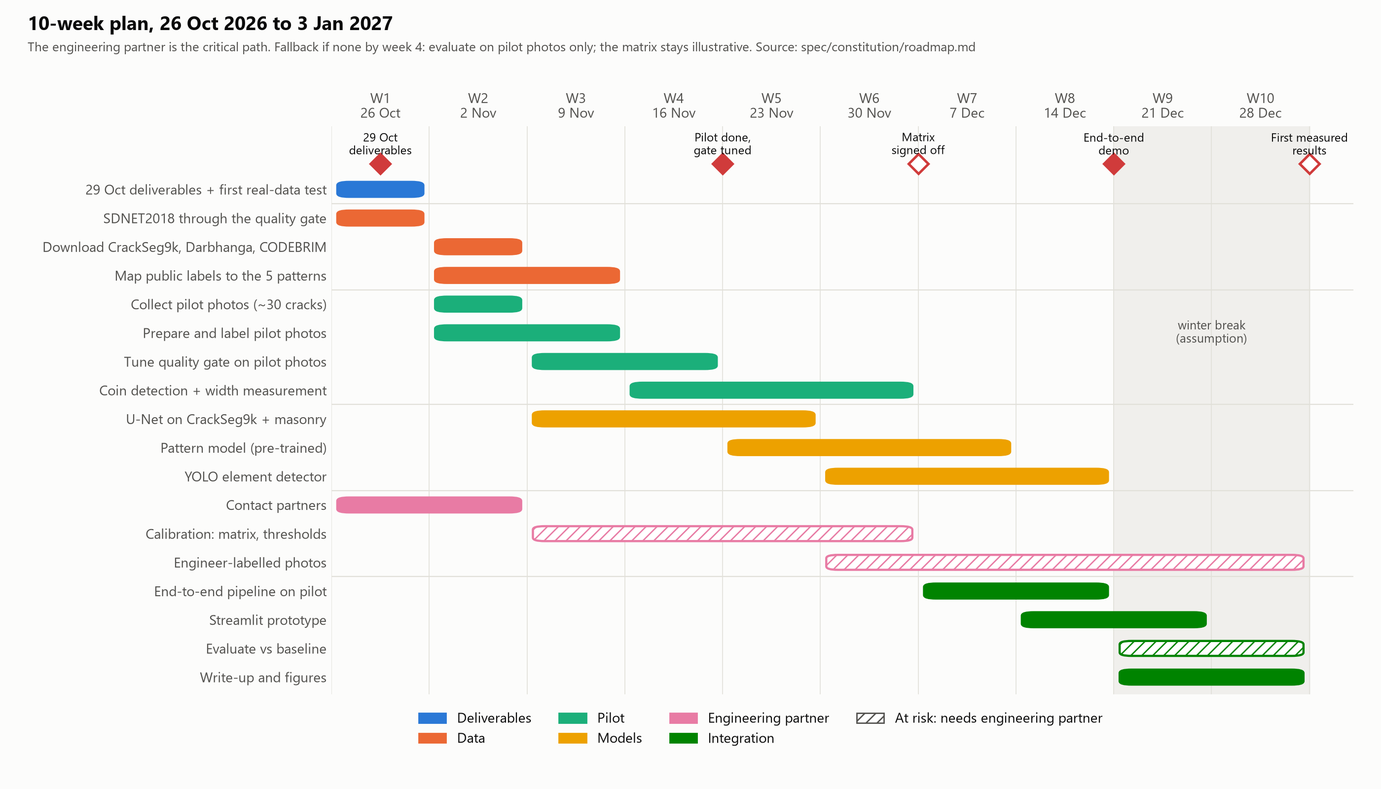
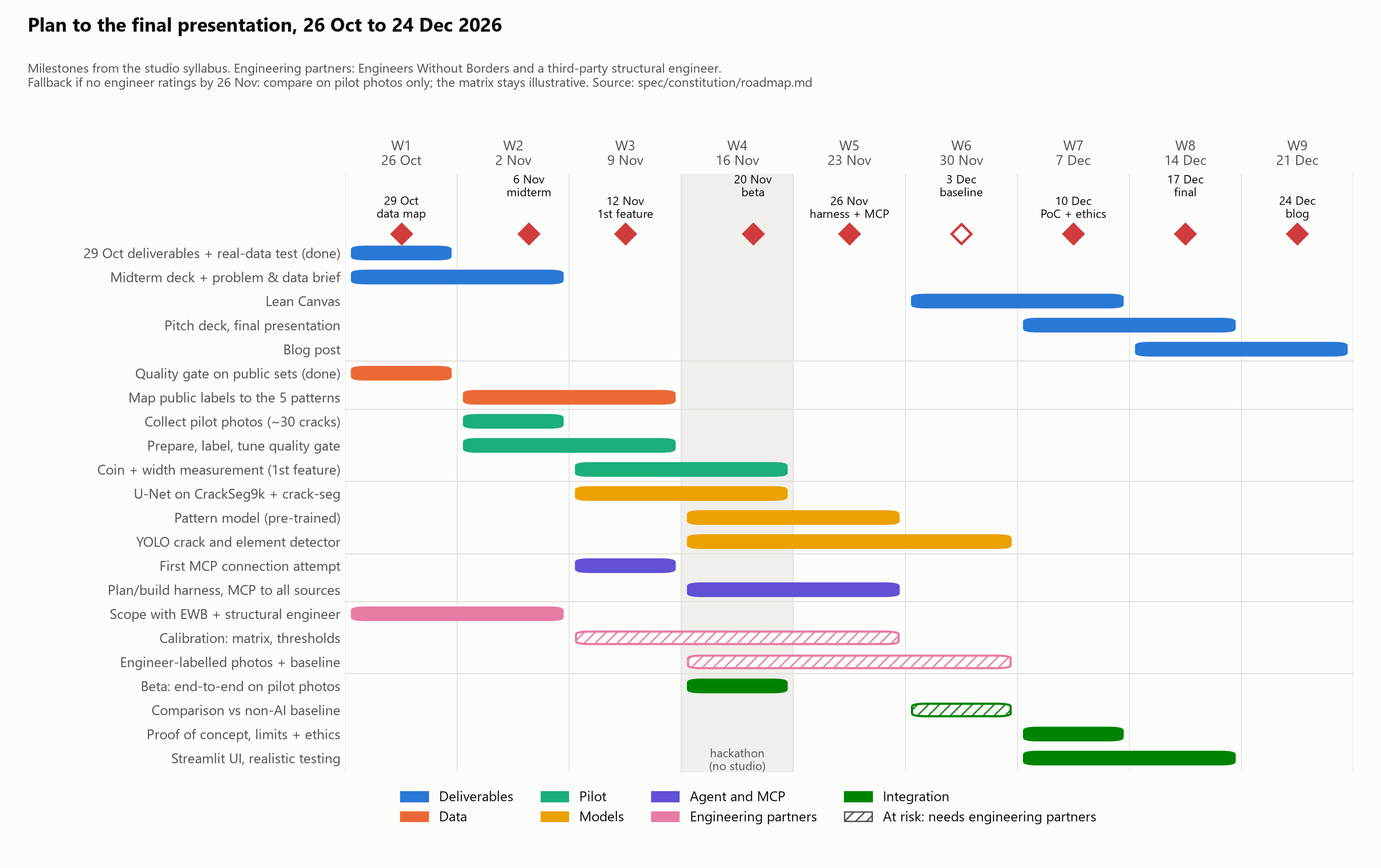
Plan to syllabus dates, set partners, add SDNET2018 results
- Roadmap and timeline follow the studio syllabus: midterm 6 Nov,
  hackathon beta 16-20 Nov, baseline 3 Dec, final 17 Dec, blog 24 Dec;
  adds the agent harness and MCP workstream (D11)
- Engineering partners: Engineers Without Borders and a third-party
  structural engineer (D10)
- SDNET2018 added to the real-data test: the blur check rejects most
  smooth wall and deck tiles that are in focus (D12, open)
- Figure 08 laid out as a grid

diff --git a/src/viz/figures.py b/src/viz/figures.py
@@ -333,38 +333,45 @@ def confusion_template():
 
 # From spec/constitution/roadmap.md. (workstream, task, first week, last week, at risk)
 PLAN = [
-    ("Deliverables", "29 Oct deliverables + first real-data test", 1, 1, False),
-    ("Data", "SDNET2018 through the quality gate", 1, 1, False),
-    ("Data", "Download CrackSeg9k, Darbhanga, CODEBRIM", 2, 2, False),
+    ("Deliverables", "29 Oct deliverables + real-data test (done)", 1, 1, False),
+    ("Deliverables", "Midterm deck + problem & data brief", 1, 2, False),
+    ("Deliverables", "Lean Canvas", 6, 7, False),
+    ("Deliverables", "Pitch deck, final presentation", 7, 8, False),
+    ("Deliverables", "Blog post", 8, 9, False),
+    ("Data", "Quality gate on public sets (done)", 1, 1, False),
     ("Data", "Map public labels to the 5 patterns", 2, 3, False),
     ("Pilot", "Collect pilot photos (~30 cracks)", 2, 2, False),
-    ("Pilot", "Prepare and label pilot photos", 2, 3, False),
-    ("Pilot", "Tune quality gate on pilot photos", 3, 4, False),
-    ("Pilot", "Coin detection + width measurement", 4, 6, False),
-    ("Models", "U-Net on CrackSeg9k + masonry", 3, 5, False),
-    ("Models", "Pattern model (pre-trained)", 5, 7, False),
-    ("Models", "YOLO element detector", 6, 8, False),
-    ("Engineering partner", "Contact partners", 1, 2, False),
-    ("Engineering partner", "Calibration: matrix, thresholds", 3, 6, True),
-    ("Engineering partner", "Engineer-labelled photos", 6, 10, True),
-    ("Integration", "End-to-end pipeline on pilot", 7, 8, False),
-    ("Integration", "Streamlit prototype", 8, 9, False),
-    ("Integration", "Evaluate vs baseline", 9, 10, True),
-    ("Integration", "Write-up and figures", 9, 10, False),
+    ("Pilot", "Prepare, label, tune quality gate", 2, 3, False),
+    ("Pilot", "Coin + width measurement (1st feature)", 3, 4, False),
+    ("Models", "U-Net on CrackSeg9k + crack-seg", 3, 4, False),
+    ("Models", "Pattern model (pre-trained)", 4, 5, False),
+    ("Models", "YOLO crack and element detector", 4, 6, False),
+    ("Agent and MCP", "First MCP connection attempt", 3, 3, False),
+    ("Agent and MCP", "Plan/build harness, MCP to all sources", 4, 5, False),
+    ("Engineering partners", "Scope with EWB + structural engineer", 1, 2, False),
+    ("Engineering partners", "Calibration: matrix, thresholds", 3, 5, True),
+    ("Engineering partners", "Engineer-labelled photos + baseline", 4, 6, True),
+    ("Integration", "Beta: end-to-end on pilot photos", 4, 4, False),
+    ("Integration", "Comparison vs non-AI baseline", 6, 6, True),
+    ("Integration", "Proof of concept, limits + ethics", 7, 7, False),
+    ("Integration", "Streamlit UI, realistic testing", 7, 8, False),
 ]
-# (x in weeks from 26 Oct, label, at risk); 29 Oct is the Thursday of week 1.
-MILESTONES = [(0.5, "29 Oct\ndeliverables", False), (4, "Pilot done,\ngate tuned", False),
-              (6, "Matrix\nsigned off", True), (8, "End-to-end\ndemo", False), (10, "First measured\nresults", True)]
+# (x in weeks from Monday 26 Oct, label, at risk); x = (days after 26 Oct + 0.5) / 7, from the syllabus.
+MILESTONES = [(0.5, "29 Oct\ndata map", False), (1.64, "6 Nov\nmidterm", False),
+              (2.5, "12 Nov\n1st feature", False), (3.64, "20 Nov\nbeta", False),
+              (4.5, "26 Nov\nharness + MCP", False), (5.5, "3 Dec\nbaseline", True),
+              (6.5, "10 Dec\nPoC + ethics", False), (7.5, "17 Dec\nfinal", False), (8.5, "24 Dec\nblog", False)]
 WORKSTREAM_COLOURS = {"Deliverables": BLUE, "Data": "#eb6834", "Pilot": AQUA, "Models": "#eda100",
-                      "Engineering partner": "#e87ba4", "Integration": "#008300"}
-WEEK_STARTS = ["26 Oct", "2 Nov", "9 Nov", "16 Nov", "23 Nov", "30 Nov", "7 Dec", "14 Dec", "21 Dec", "28 Dec"]
+                      "Agent and MCP": VIOLET, "Engineering partners": "#e87ba4", "Integration": "#008300"}
+WEEK_STARTS = ["26 Oct", "2 Nov", "9 Nov", "16 Nov", "23 Nov", "30 Nov", "7 Dec", "14 Dec", "21 Dec"]
 
 
 def timeline():
-    fig, ax = plt.subplots(figsize=(14, 8))
+    weeks = len(WEEK_STARTS)
+    fig, ax = plt.subplots(figsize=(14, 8.8))
     n = len(PLAN)
-    ax.axvspan(8, 10, color="#f0efec", zorder=0)
-    ax.text(9, 5, "winter break\n(assumption)", ha="center", va="center", fontsize=9, color=INK_2)
+    ax.axvspan(3, 4, color="#f0efec", zorder=0)
+    ax.text(3.5, n - 0.9, "hackathon\n(no studio)", ha="center", va="center", fontsize=8.5, color=INK_2)
     previous = None
     for i, (stream, task, start, end, risk) in enumerate(PLAN):
         colour = WORKSTREAM_COLOURS[stream]
@@ -375,28 +382,29 @@ def timeline():
                                     boxstyle="round,pad=0,rounding_size=0.12", zorder=2,
                                     facecolor=colour if not risk else "white", edgecolor=colour,
                                     hatch="///" if risk else None, lw=1.6))
-    for x, label, risk in MILESTONES:
-        ax.plot(x, -0.9, marker="D", ms=10, color=LEVEL["High"] if not risk else "white",
+    for k, (x, label, risk) in enumerate(MILESTONES):
+        ax.plot(x, -0.8, marker="D", ms=10, color=LEVEL["High"] if not risk else "white",
                 markeredgecolor=LEVEL["High"], mew=1.8, zorder=3)
-        ax.text(x, -1.55, label, ha="center", va="center", fontsize=8.5, color=INK)
-    ax.set_xlim(0, 10.45)
-    ax.set_ylim(n - 0.4, -2.2)
-    ax.set_xticks([w + 0.5 for w in range(10)], [f"W{w + 1}\n{d}" for w, d in enumerate(WEEK_STARTS)])
+        ax.text(x, -1.85 if k % 2 == 0 else -2.75, label, ha="center", va="center", fontsize=8.5, color=INK)
+    ax.set_xlim(0, weeks)
+    ax.set_ylim(n - 0.4, -3.3)
+    ax.set_xticks([w + 0.5 for w in range(weeks)], [f"W{w + 1}\n{d}" for w, d in enumerate(WEEK_STARTS)])
     ax.set_yticks(range(n), [t[1] for t in PLAN])
     ax.xaxis.tick_top()
-    for w in range(11):
+    for w in range(weeks + 1):
         ax.axvline(w, color=GRID, lw=0.6, zorder=0)
     ax.tick_params(length=0)
     for s in ax.spines.values():
         s.set_visible(False)
     handles = [Patch(facecolor=c, edgecolor=c, label=s) for s, c in WORKSTREAM_COLOURS.items()]
-    handles.append(Patch(facecolor="white", edgecolor=INK_2, hatch="///", label="At risk: needs engineering partner"))
-    ax.legend(handles=handles, loc="upper center", bbox_to_anchor=(0.42, -0.01), ncol=4, frameon=False)
-    fig.suptitle("10-week plan, 26 Oct 2026 to 3 Jan 2027", x=0.02, ha="left", fontsize=14, weight="bold")
-    fig.text(0.02, 0.935, "The engineering partner is the critical path. Fallback if none by week 4: evaluate on "
-             "pilot photos only; the matrix stays illustrative. Source: spec/constitution/roadmap.md",
-             fontsize=9.5, color=INK_2)
-    fig.subplots_adjust(left=0.24, right=0.98, top=0.84, bottom=0.12)
+    handles.append(Patch(facecolor="white", edgecolor=INK_2, hatch="///", label="At risk: needs engineering partners"))
+    ax.legend(handles=handles, loc="upper center", bbox_to_anchor=(0.4, -0.01), ncol=4, frameon=False)
+    fig.suptitle("Plan to the final presentation, 26 Oct to 24 Dec 2026", x=0.02, ha="left", fontsize=14,
+                 weight="bold")
+    fig.text(0.02, 0.9, "Milestones from the studio syllabus. Engineering partners: Engineers Without Borders and a "
+             "third-party structural engineer.\nFallback if no engineer ratings by 26 Nov: compare on pilot photos "
+             "only; the matrix stays illustrative. Source: spec/constitution/roadmap.md", fontsize=9.5, color=INK_2)
+    fig.subplots_adjust(left=0.25, right=0.98, top=0.8, bottom=0.11)
     return fig
 
 

diff --git a/src/experiments/real_data_quality.py b/src/experiments/real_data_quality.py
@@ -91,9 +91,13 @@ def histogram(rows: list[dict], path: Path) -> None:
     from viz.figures import BLUE, GRID, INK_2, LEVEL
 
     groups = sorted({r["group"] for r in rows})
-    fig, axes = plt.subplots(1, len(groups), figsize=(max(11, 3.6 * len(groups) + 1), 4.2), squeeze=False)
+    cols = min(3, len(groups))
+    nrows = -(-len(groups) // cols)
+    fig, axes = plt.subplots(nrows, cols, figsize=(max(11, 4.4 * cols), 3.3 * nrows + 1.6), squeeze=False)
+    for ax in axes.flat[len(groups):]:
+        ax.set_axis_off()
     bins = np.logspace(0, 4.5, 37)
-    for ax, group in zip(axes[0], groups):
+    for ax, group in zip(axes.flat, groups):
         for label, colour in (("crack", BLUE), ("no crack", "#eb6834"), ("unlabelled", "#1baf7a")):
             vals = [max(r["sharpness"], 1) for r in rows if r["group"] == group and r["label"] == label]
             if vals:
@@ -108,12 +112,14 @@ def histogram(rows: list[dict], path: Path) -> None:
             ax.spines[s].set_visible(False)
     axes[0][0].text(MIN_SHARPNESS * 1.12, 0.97, "blur limit\n(illustrative)", transform=axes[0][0].get_xaxis_transform(),
                     va="top", fontsize=8, color=INK_2)
-    axes[0][0].set_ylabel("Images")
+    for row in axes:
+        row[0].set_ylabel("Images")
     fig.suptitle("Quality gate on real images: public dataset samples", x=0.02, ha="left", fontsize=14, weight="bold")
-    fig.text(0.02, 0.82, f"Images left of the red line would be asked to retake. Brightness limits "
+    top = 1 - 1.3 / (3.3 * nrows + 1.6)
+    fig.text(0.02, top + 0.02, f"Images left of the red line would be asked to retake. Brightness limits "
              f"{MIN_BRIGHTNESS:g} to {MAX_BRIGHTNESS:g}.\nNot phone photos: tests the code, does not calibrate "
-             "thresholds.", fontsize=9.5, color=INK_2)
-    fig.subplots_adjust(left=0.07, right=0.98, top=0.7, bottom=0.15, wspace=0.18)
+             "thresholds.", fontsize=9.5, color=INK_2, va="bottom")
+    fig.subplots_adjust(left=0.07, right=0.98, top=top - 0.04, bottom=0.08, wspace=0.18, hspace=0.55)
     fig.savefig(path, dpi=200)
     plt.close(fig)
 

diff --git a/spec/constitution/roadmap.md b/spec/constitution/roadmap.md
@@ -5,42 +5,61 @@
    Goal: flag every crack the engineer rated High, and send only a few cases to an expert.
 3. Widen the scope, only if the Phase 2 goal is met: more materials, ground fissures, multi-storey frames, offline use.
 
-## Dates (from the syllabus)
-- 29 Oct 2026: segmentation tree, full data map (availability, access, format, gaps), repository and AGENTS.md, agent working on real data as a first test.
+## Engineering partners
+- Engineers Without Borders: labelling photos, signing off the matrix and thresholds, access to assessed buildings.
+- A third-party structural engineer: independent check of thresholds and of the baseline ratings. Agreement under construction.
+Both are needed for every task marked "at risk" below (`spec/decisions.md` D10).
 
-## 10-week plan (26 Oct 2026 to 3 Jan 2027)
+## Dates (from the syllabus, 26/27 MaAI01)
+| Date | Session | Target outcome |
+|---|---|---|
+| 29 Oct | Segmentation tree, full data map, repo + AGENTS.md | Agent working on real data as a first test |
+| 5 Nov | Midterm submission deadline | |
+| 6 Nov | **Midterm presentations** | |
+| 12 Nov | Full SDD constitution, first feature with tests, first MCP connection attempt | A first feature that can be measured against the baseline |
+| 16 to 20 Nov | Hackathon week (no studio) | Beta version |
+| 26 Nov | Full plan/build harness, MCP connectors to all mapped sources | Agent works inside defined boundaries across several live sources |
+| 3 Dec | Features + tests, comparison against the non-AI method | Measurable evidence of whether the tool beats the baseline, and where it fails |
+| 10 Dec | Physical/digital proof of concept; limits and ethics check; UI build | Checked against physical reality; risks and responsibilities explicit |
+| 14 Dec | UI, testing in realistic conditions, narrative draft | The story matches what the system does |
+| 17 Dec | **Final presentations** | Live demo + pitch |
+| by 24 Dec | Blog post on blog.iaac.net (at most 1 week after the end of the studio) | |
+
+Final deliverables: problem & data brief, project repository (with the baseline comparison), operable prototype with interface and proof of concept, Lean Canvas, final presentation with a 10-slide pitch deck (`PITCH_DECK`), IAAC blog post (`docs/BLOG_POST`).
+
+## Plan to the final presentation (26 Oct to 24 Dec 2026)
 
 ![Timeline](../../figures/09_timeline.png)
 
-Weeks start on Monday. The only fixed date from the syllabus is 29 Oct; add the other review dates when they are known.
-Assumption: weeks 9 and 10 fall in the winter break, so they hold only write-up and evaluation.
-"At risk" means the task depends on the engineering partner.
+Weeks start on Monday. "At risk" means the task depends on the engineering partners.
 
 | Workstream | Task | Weeks | At risk |
 |---|---|---|---|
-| Deliverables | 29 Oct: tree, data map, repo, AGENTS.md, first test on real data | 1 | |
-| Data | SDNET2018 first test through the quality gate | 1 | |
-| Data | Download CrackSeg9k, Darbhanga, CODEBRIM; check formats and licences | 2 | |
-| Data | Map public labels to the five patterns | 2 to 3 | |
+| Deliverables | 29 Oct: tree, data map, repo, first real-data test (done) | 1 | |
+| Deliverables | Midterm deck and problem & data brief (submit 5 Nov) | 1 to 2 | |
+| Deliverables | Lean Canvas | 6 to 7 | |
+| Deliverables | 10-slide pitch deck, final presentation | 7 to 8 | |
+| Deliverables | Blog post (by 24 Dec) | 8 to 9 | |
+| Data | Quality gate on crack-seg, Darbhanga, SDNET2018 (done) | 1 | |
+| Data | Map public labels to the 5 patterns | 2 to 3 | |
 | Pilot | Collect pilot photos (about 30 cracks, `spec/features/photo_protocol.md`) | 2 | |
-| Pilot | Prepare and label the pilot photos | 2 to 3 | |
-| Pilot | Tune the quality gate on pilot photos | 3 to 4 | |
-| Pilot | Coin detection and width measurement | 4 to 6 | |
-| Models | U-Net on CrackSeg9k and masonry masks | 3 to 5 | |
-| Models | Pattern model, pre-trained on public sets | 5 to 7 | |
-| Models | YOLO element detector | 6 to 8 | |
-| Engineering partner | Contact partners (Order of Engineers Tripoli, volunteer networks) | 1 to 2 | |
-| Engineering partner | Calibration sessions: matrix, thresholds, protocol | 3 to 6 | yes |
-| Engineering partner | Engineer-labelled photos | 6 to 10 | yes |
-| Integration | End-to-end pipeline on pilot photos | 7 to 8 | |
-| Integration | Streamlit prototype | 8 to 9 | |
-| Integration | Evaluate against the baseline (confusion tables) | 9 to 10 | yes |
-| Integration | Write-up and figures | 9 to 10 | |
+| Pilot | Prepare, label, tune the quality gate | 2 to 3 | |
+| Pilot | Coin detection and width measurement: first feature against the baseline (12 Nov) | 3 to 4 | |
+| Models | U-Net on CrackSeg9k and crack-seg | 3 to 4 | |
+| Models | Pattern model, pre-trained on public sets | 4 to 5 | |
+| Models | YOLO crack and element detector | 4 to 6 | |
+| Agent and MCP | First MCP connection attempt (12 Nov) | 3 | |
+| Agent and MCP | Plan/build harness, MCP connectors to all mapped sources (26 Nov) | 4 to 5 | |
+| Engineering partners | Agree scope with Engineers Without Borders and the structural engineer | 1 to 2 | |
+| Engineering partners | Calibration: matrix, thresholds, protocol | 3 to 5 | yes |
+| Engineering partners | Engineer-labelled photos and baseline ratings | 4 to 6 | yes |
+| Integration | Beta: end-to-end pipeline on pilot photos (hackathon) | 4 | |
+| Integration | Comparison against the non-AI baseline (3 Dec) | 6 | yes |
+| Integration | Proof of concept, limits and ethics check (10 Dec) | 7 | |
+| Integration | Streamlit UI, testing in realistic conditions | 7 to 8 | |
 
-Milestones: week 1 (29 Oct) deliverables; week 4 pilot done and gate tuned; week 6 matrix signed off (at risk); week 8 end-to-end demo on pilot photos; week 10 first measured results (at risk).
-
-Fallback: if no partner has agreed by week 4, the pipeline is evaluated on pilot photos against our own width measurements only, the triage matrix stays illustrative, and the report says so.
+Fallback: if no engineer ratings exist by 26 Nov, the 3 Dec comparison uses the pilot photos against our own width measurements only, the triage matrix stays illustrative, and the report says so.
 
 ## Open items
 - Impact section: indicator with unit, baseline, target, evidence.
-- Engineering partner and labelled photos.
+- Engineering partners: agreement with the third-party structural engineer is under construction.

diff --git a/docs/data_map.md b/docs/data_map.md
@@ -28,7 +28,7 @@ Raw data is never committed; it lives in `data/` (git-ignored).
 
 | Data | Source | Availability | Access | Format | Size | Licence | Covers | Gaps |
 |---|---|---|---|---|---|---|---|---|
-| SDNET2018 | Utah State University [22] | Available | Public page; scripted download blocked (403), download in a browser | JPEG tiles, crack / no-crack by folder | "Over 56,000" images; 503.8 MB zip | CC BY 4.0 | Concrete bridge decks, walls, pavements | Concrete only; no masks, no scale, no brick, columns or beams; camera tiles, not phone photos |
+| SDNET2018 | Utah State University [22] | **Downloaded** (in a browser; scripted download blocked, 403) | Public page | JPEG tiles 256 x 256, crack / no-crack by folder | 56,092 images counted (deck 13,620, wall 18,138, pavement 24,334); 503.8 MB zip | CC BY 4.0 | Concrete bridge decks, walls, pavements | Concrete only; no masks, no scale, no brick, columns or beams; camera tiles, not phone photos |
 | CrackSeg9k | Harvard Dataverse, doi:10.7910/DVN/EGIEBY [25] | **Downloaded** (Vol1, MD5 matches; Vol2 not yet) | Public download, scriptable | Vol1: 9,159 greyscale masks at 400 x 400 with soft values (0, 1, 2, 3...), need a threshold; 5,413 of the RGB images; train/test lists; a "Heads" folder (DINO features, not masks) | 9,255 images stated, 9,159 masks found; two zips, 1.55 GB and 1.26 GB | CC0 1.0 | Ten merged sets (largest: CRACK500, Rissbilder, DeepCrack, Volker, GAPS384) plus 1,411 non-crack images; a masonry subset of 240 per [32] | Mostly pavement and concrete; masonry subset not identifiable by file name; no scale |
 | Ultralytics crack-seg | Ultralytics, from a 2022 Roboflow "crack" dataset [33][34] | **Downloaded** | Public download (GitHub release), scriptable | YOLO segmentation polygons, 1 class; all images 416 x 416 | 4,029 images (3,717 train, 200 val, 112 test; the YAML comments swap val and test); 96 MB zip; 1 empty label | Public Domain on the dataset page; the YAML file header says AGPL-3.0 (Ultralytics' own licence); licence of the original Roboflow set not checked | Cracks on roads and walls | No scale; no element type; roads and walls mixed |
 | PEER Hub ImageNet (PHI-Net) | PEER, UC Berkeley [26][27] | Available | Download page per task; registration not stated | Images with 8 classification tasks (scene, damage state, spalling, material, collapse mode, component type, damage level, damage type) | 36,413 images (as of Nov 2019) | CC BY-NC-SA 4.0 | Post-earthquake structural images | No masks, no width, no scale; non-commercial |
@@ -47,7 +47,7 @@ Raw data is never committed; it lives in `data/` (git-ignored).
 
 | Data | Source | Availability | Access | Format | Size | Licence | Covers | Gaps |
 |---|---|---|---|---|---|---|---|---|
-| Engineers' Syndicate list of 106 buildings, Tripoli | MTV Lebanon, 25 Jan 2026 [8] | Reported in the press; list itself not found | Ask the Order of Engineers, Tripoli (assumption: not public) | Unknown | 106 buildings | Unknown | Buildings engineers already judged at risk: candidate ground truth and photo sites | Access, content and format unknown |
+| List of 106 at-risk buildings, Tripoli | MTV Lebanon, 25 Jan 2026 [8] | Reported in the press; list itself not found | No access route identified | Unknown | 106 buildings | Unknown | Buildings engineers already judged at risk: candidate ground truth and photo sites | Access, content and format unknown |
 | Municipal evacuation list, Tripoli | Government announcement, 9 Feb 2026 [3][5] | Reported; list not found | Ask the municipality (assumption) | Unknown | 114 buildings | Unknown | Same as above | Same as above; overlap with the 106 list unknown [6] |
 | BUET factory survey, Dhaka | Reported by AFP, The Daily Star [16][17] | Reported; raw survey not found | Ask BUET (assumption) | Unknown | Unknown | Unknown | Engineer assessments of factory buildings | Frames, Phase 3; old (2013) |
 | Building database for the agent (construction type, footprint) | Not chosen | - | Over MCP (planned) | To define | - | - | Context for the agent | Source, schema and access all open |
@@ -57,11 +57,11 @@ Raw data is never committed; it lives in `data/` (git-ignored).
 - Case-study figures (deaths, evacuations): context for the problem, not training data.
 
 ## 4. Plan, in order
-1. **First test on real data (29 Oct): done** on crack-seg and Darbhanga, 8,288 images (`docs/experiments/2026-10-25_quality_gate_first_test.md`). It found and fixed a resolution bug in the blur check. SDNET2018 is added when downloaded in a browser. Tests the code, not the thresholds.
+1. **First test on real data (29 Oct): done** on crack-seg, Darbhanga and SDNET2018 (`docs/experiments/2026-10-25_quality_gate_first_test.md`). It found and fixed a resolution bug in the blur check, and showed that the blur check confuses smooth walls with blur (D12). Tests the code, not the thresholds.
 2. **U-Net training set:** CrackSeg9k, plus the Dais et al. masonry masks if their image terms allow it.
 3. **Pattern gaps:** CODEBRIM for spalling with rust (research only), Darbhanga for brick masonry.
 4. **Pilot photos this week:** about 30 cracks on public facades in Barcelona, following `spec/features/photo_protocol.md`. Tests the protocol and gives the quality gate real phone photos.
-5. **Engineering partner, now:** the Order of Engineers in Tripoli about the 106-building list, or a volunteer engineers' network. Everything in Phase 2 waits on this.
+5. **Engineering partners, now:** Engineers Without Borders and a third-party structural engineer (agreement under construction) for labelled photos, baseline ratings and sign-off. Everything in Phase 2 waits on this.
 
 ## 5. Open items
 - Consent and data rules for Phase 2: the deck says "photos stay with the household"; labelling needs copies. Write who keeps what, for how long, and how faces and addresses are removed.

diff --git a/docs/experiments/2026-10-25_quality_gate_first_test.md b/docs/experiments/2026-10-25_quality_gate_first_test.md
@@ -4,33 +4,41 @@ Deliverable for 29 Oct: "agent working on real data as a first test".
 Spec: `spec/features/quality_gate.md`. Code: `src/experiments/real_data_quality.py`. Figure: `figures/08_real_data_quality_gate.png`.
 
 ## What was run
-The quality gate's image checks (sharpness, brightness) on **every image** of two public datasets, downloaded into `data/raw/` (git-ignored):
+The quality gate's image checks (sharpness, brightness) on three public datasets, downloaded into `data/raw/` (git-ignored). First run: every image of crack-seg and Darbhanga (8,288). Second run, with SDNET2018 added: up to 2,000 random images per group (16,417).
 
 | Dataset | Images | Size | Labels | Check of the download |
 |---|---|---|---|---|
 | Ultralytics crack-seg [33][34] | 4,029 (3,717 train, 200 val, 112 test) | all 416 x 416 | YOLO polygons, 1 class; 1 empty label file | Counted in the zip |
 | Darbhanga brick masonry [30] | 4,259 (3,407 train, 639 val, 213 test) | all 768 x 768 | YOLO bounding boxes, 1 class; test has no labels; 203 train images without labels (no crack) | SHA-256 matches the Mendeley record |
+| SDNET2018 [22] | 56,092 (deck 2,025 cracked / 11,595 uncracked; wall 3,851 / 14,287; pavement 2,608 / 21,726) | 256 x 256 tiles | crack / no crack by folder | Downloaded in a browser (scripted download blocked); every file size checked against the download |
 
 The coin check is not implemented, so every image was treated as if the coin were confirmed; these sets have no coin.
-SDNET2018 could not be downloaded by script (HTTP 403) and is not in this run.
 
-## Results
+## Results (second run, all three datasets)
 
 ![Quality gate on real images](../../figures/08_real_data_quality_gate.png)
 
 | Dataset | Label | n | Pass rate | Median sharpness | Median brightness | Main failure |
 |---|---|---|---|---|---|---|
-| crack-seg | crack | 4,028 | 97% | 763.5 | 160.8 | too bright (118), blurred (14) |
-| crack-seg | no crack (empty label) | 1 | 100% | 4,591.0 | 181.3 | - |
-| Darbhanga | crack | 3,843 | 73% | 217.9 | 123.9 | blurred |
+| crack-seg | crack | 2,000 | 97% | 765.9 | 159.9 | too bright |
+| Darbhanga | crack | 2,000 | 73% | 219.6 | 123.9 | blurred |
 | Darbhanga | no crack | 203 | 95% | 233.9 | 149.9 | blurred |
 | Darbhanga | unlabelled (test) | 213 | 89% | 286.6 | 121.7 | blurred |
+| SDNET2018 bridge deck | crack | 2,000 | 25% | 58.2 | 178.6 | blurred |
+| SDNET2018 bridge deck | no crack | 2,000 | 13% | 44.3 | 177.7 | blurred |
+| SDNET2018 wall | crack | 2,000 | 20% | 44.5 | 173.1 | blurred |
+| SDNET2018 wall | no crack | 2,000 | 11% | 31.7 | 167.3 | blurred |
+| SDNET2018 pavement | crack | 2,000 | 91% | 439.0 | 156.3 | blurred |
+| SDNET2018 pavement | no crack | 2,000 | 84% | 340.2 | 156.2 | blurred |
+
+First run on every crack-seg image (4,029): 97% pass, 118 too bright, 14 blurred. Every Darbhanga image (4,259): same pass rates as above within 1 point.
 
 ## What we learned
-1. **The code runs on real images end to end**: 8,288 images read, measured and logged, with a figure.
+1. **The code runs on real images end to end**: three datasets, up to 16,417 images per run, measured and logged, with a figure.
 2. **Bug found and fixed: sharpness depended on resolution.** Before the fix the gate rejected 63% of all Darbhanga images as blurred. Scaling the same images to 416 px dropped the blurred share from 67% to 11% (sample of 107 images). A phone photo at about 4000 px would almost always have failed. The gate now measures on a copy scaled to 512 px (`spec/decisions.md` D8). This is why a test on real data was worth doing before the pilot.
 3. **Cracked brick images score lower on sharpness than uncracked ones** (73% vs 95% pass). Possible reasons: close-ups of cracks, smoother surfaces, or real blur. Not tested; we need to look at the rejected images before changing anything.
-4. **"Too bright" is the main failure on crack-seg** (118 of 4,029). Many images are pale concrete or pavement; the 220 limit may be too strict for light walls. To check on the pilot phone photos.
+4. **Second problem found: the blur measure confuses smooth surfaces with blur.** The gate rejects 75 to 89% of SDNET2018 wall and deck tiles, but only 9 to 16% of pavement. These are 256 px tiles, so it is not the resolution bug. A visual check of 8 rejected cracked-wall tiles: most are in focus, smooth low-contrast concrete with hairline cracks; a few look slightly soft. Laplacian variance measures texture as much as focus. On real walls this means **hairline cracks on smooth plaster or concrete would be sent back for retake again and again**. That is safe (a retake is never a Low) but makes the tool unusable for exactly the walls we care about. Not fixed yet: we need photos with known blur to choose a better measure (`spec/decisions.md` D12).
+5. **"Too bright" is the main failure on crack-seg** (118 of 4,029). Many images are pale concrete or pavement; the 220 limit may be too strict for light walls. To check on the pilot phone photos.
 
 ## Limits
 - None of these are phone photos with a coin, so the thresholds are not calibrated by this test (`spec/decisions.md` D7).
@@ -40,4 +48,5 @@ SDNET2018 could not be downloaded by script (HTTP 403) and is not in this run.
 ## Next
 - Look at a sample of rejected Darbhanga and "too bright" crack-seg images.
 - Rerun with the pilot phone photos and their deliberately bad shots.
-- Add SDNET2018 when it is downloaded in a browser: `py src/experiments/real_data_quality.py data/raw/crack-seg data/raw/darbhanga data/raw/sdnet2018`.
+- On the pilot photos, compare the current measure with ones less tied to texture (for example sharpness of the strongest edges only), using the deliberately blurred shots as ground truth.
+- Rerun: `py src/experiments/real_data_quality.py data/raw/crack-seg data/raw/darbhanga data/raw/sdnet2018 --per-group 2000`.

diff --git a/spec/decisions.md b/spec/decisions.md
@@ -32,7 +32,7 @@ Any model meant for real deployment is retrained without them, on CC0 / CC BY da
 Reason: their licences forbid commercial use, and a deployed tool may later be run by a company or a funded programme.
 
 ## D7 (2026-10-25): SDNET2018 is a code test, not training data for thresholds
-Public sets (crack-seg and Darbhanga, run on 25 Oct; SDNET2018 when downloaded) are used for the 29 Oct first test on real data. They do not set any threshold, because they are not phone photos and have no scale reference.
+Public sets (crack-seg and Darbhanga, run on 25 Oct; SDNET2018) are used for the 29 Oct first test on real data. They do not set any threshold, because they are not phone photos and have no scale reference.
 Thresholds for the quality gate come from the pilot phone photos; triage thresholds come from the engineering partner.
 
 ## D8 (2026-10-25): measure sharpness at a fixed working size
@@ -44,3 +44,16 @@ Status: 512 px is illustrative; check on the pilot phone photos.
 The `ultralytics` package (YOLO) is licensed AGPL-3.0, or under a paid Enterprise licence [35]. Using it in the studio is fine; any tool offered to others over a network must publish its source under AGPL-3.0, or buy the Enterprise licence, or swap the detector.
 Decision: use it for research now; decide before any deployment. Keep the detector behind one function in `src/` so it can be swapped.
 Status: open, to revisit before Phase 3.
+
+## D10 (2026-10-25): engineering partners
+The engineering partners are Engineers Without Borders and a third-party structural engineer. The agreement with the structural engineer is under construction.
+They label photos, give the baseline ratings (an engineer's visual check), and sign off the risk matrix and thresholds.
+Status: Engineers Without Borders named; structural engineer to confirm.
+
+## D11 (2026-10-25): plan follows the syllabus dates
+The plan runs to the final presentation on 17 Dec and the blog post by 24 Dec, with the midterm on 6 Nov, the hackathon (beta) on 16 to 20 Nov and the baseline comparison on 3 Dec (`spec/constitution/roadmap.md`). It replaces the earlier plan, which assumed a winter break and ran to 3 Jan.
+
+## D12 (2026-10-25): the blur check is not trusted on smooth walls yet
+Laplacian variance rejected 75 to 89% of SDNET2018 wall and deck tiles, most of them in focus but smooth (visual check of 8). Hairline cracks on smooth walls would be sent to retake again and again.
+Decision: keep the check (a retake is never a Low, so it is safe), but do not tune it on public data. Choose the measure and threshold on the pilot photos, using the deliberately blurred shots as ground truth.
+Status: open; results in `docs/experiments/2026-10-25_quality_gate_first_test.md`.

diff --git a/spec/features/quality_gate.md b/spec/features/quality_gate.md
@@ -20,6 +20,6 @@ Reason: Laplacian variance falls as resolution rises, so without this a sharp ph
 The result lists every failed check, so the app can tell the user what to fix.
 
 ## First test on real data (29 Oct)
-Run the sharpness and brightness checks on public datasets (`src/experiments/real_data_quality.py`): crack-seg and Darbhanga done on 25 Oct, SDNET2018 when downloaded.
+Run the sharpness and brightness checks on public datasets (`src/experiments/real_data_quality.py`): crack-seg, Darbhanga and SDNET2018, done on 25 Oct.
 Report the distributions and pass rates per dataset and crack / no-crack. Results: `docs/experiments/2026-10-25_quality_gate_first_test.md`.
 Limits: these are not phone photos and have no coin, so this tests the code on real images; it does not calibrate thresholds.
